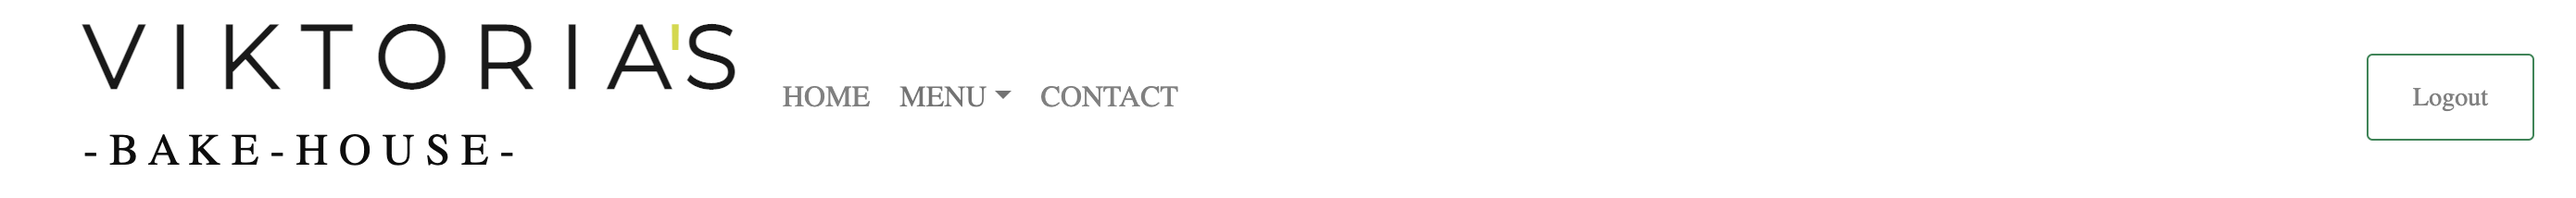
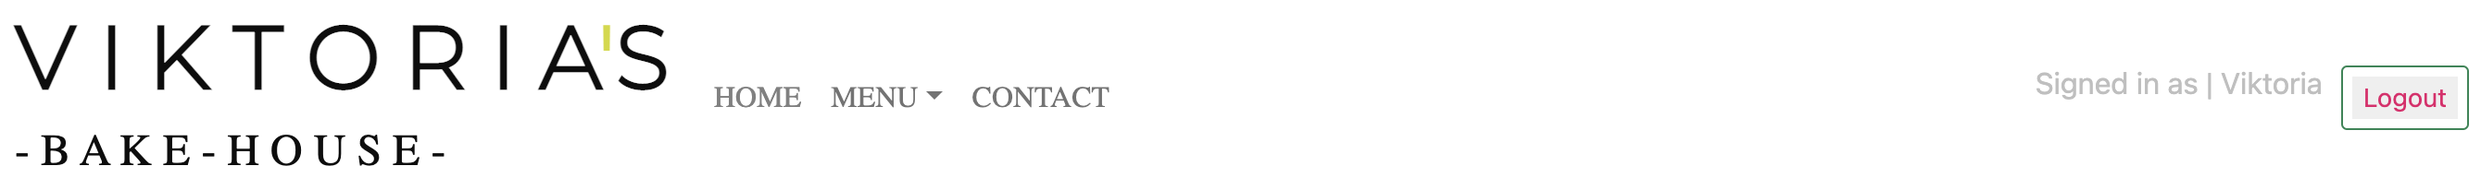
added pagination to post_detail.html

diff --git a/templates/post_detail.html b/templates/post_detail.html
@@ -100,4 +100,17 @@
     </div>
 </div>
 
+{% if is_paginated %}
+<nav aria-label="Page navigation">
+    <ul class="pagination justify-content-center">
+        {% if page_obj.has_previous %}
+            <li><a href="?page={{ page_obj.previous_page_number }}" class="page-link background-gradient">&laquo; PREV </a></li>
+        {% endif %}
+        {% if page_obj.has_next %}
+            <li><a href="?page={{ page_obj.next_page_number }}" class="page-link background-gradient"> NEXT &raquo;</a></li>
+        {% endif %}
+    </ul>
+</nav>
+{% endif %}
+
 {% endblock %}

diff --git a/README.md b/README.md
@@ -253,7 +253,7 @@ The cake voting section, I decided to keep it with the landing page. I wanted to
 
 ![](assets/post%20section%20index%20page.png)
 
-For screen sizes 900 and below, I have followed modern designs and stacked images on top of one another simalr an Instagrams design https://www.instagram.com/. I keep the images at a larger display to give a user a better feel to the image on a smaller screen. 
+For screen sizes 900 and below, I have followed modern designs and stacked images on top of one another similar to Instagrams design https://www.instagram.com/. I keep the images at a larger display to give a user a better feel to the image on a smaller screen. 
 
 ![](assets/blog%20section%20mobile%20scrren%20size.png)
 
@@ -292,7 +292,7 @@ For screen sizes at 900 pixels and smaller, the menu uses a Bootstrap container 
 ---
 
 ### Contact Page
-I wanted the contact form to be a simple and friendly form with not much input form the user. I would like the user to add a full name, email address and the enquiry they wish to make. 
+I wanted the contact form to be a simple and friendly form with not much input from the user. I would like the user to add a full name, email address and the enquiry they wish to make. 
 
 ![](assets/contact%20form.png)
 
@@ -309,13 +309,13 @@ I have had a strong point to consider to not include a phone number field within
 
 # Authentication
 
-Registration 
+### Registration 
 
 User registration follows the same design layout as all the other forms. I have added clear titles to all pages for user to not get confused. This registration form consists of a user adding a username, email address and a password which has a secondary input for the user to hopefully remember there password.
 
 ![](assets/registration%20page.png)
 
-Sign in
+### Sign in
 
 The user sign in form is again a simple and quick form for the user to fill in. Once they have signed up, they can choose to use the full site and add a comment or like a post and join the competion.
 
@@ -323,14 +323,14 @@ The user sign in form is again a simple and quick form for the user to fill in. 
 ![](assets/mobile%20sign%20in%20page.png)
 
 
-Once singed in, the user can see clearly that they are logged in as the sign and register buttons are removed from the nav bar and only the log out button is displayed. 
+Once signed in, the user can see clearly that they are logged in as the sign and register buttons are removed from the nav bar and only the log out button is displayed. To also help notify the user for being logged in, their login name will appear left to the log out button. 
 
-
+![](assets/when%20signed%20in.png)
 ![](assets/when%20signed%20in.png)
 
 ---
 
-Sign out 
+### Sign out 
 
 For when the user wants to sign out, they will need to click on the sign out button in the nav bar. From there the site will ask them once more if they are 'sure to sign out'. In case a user is to click sign out by mistake, this is a fail safe function.
 
